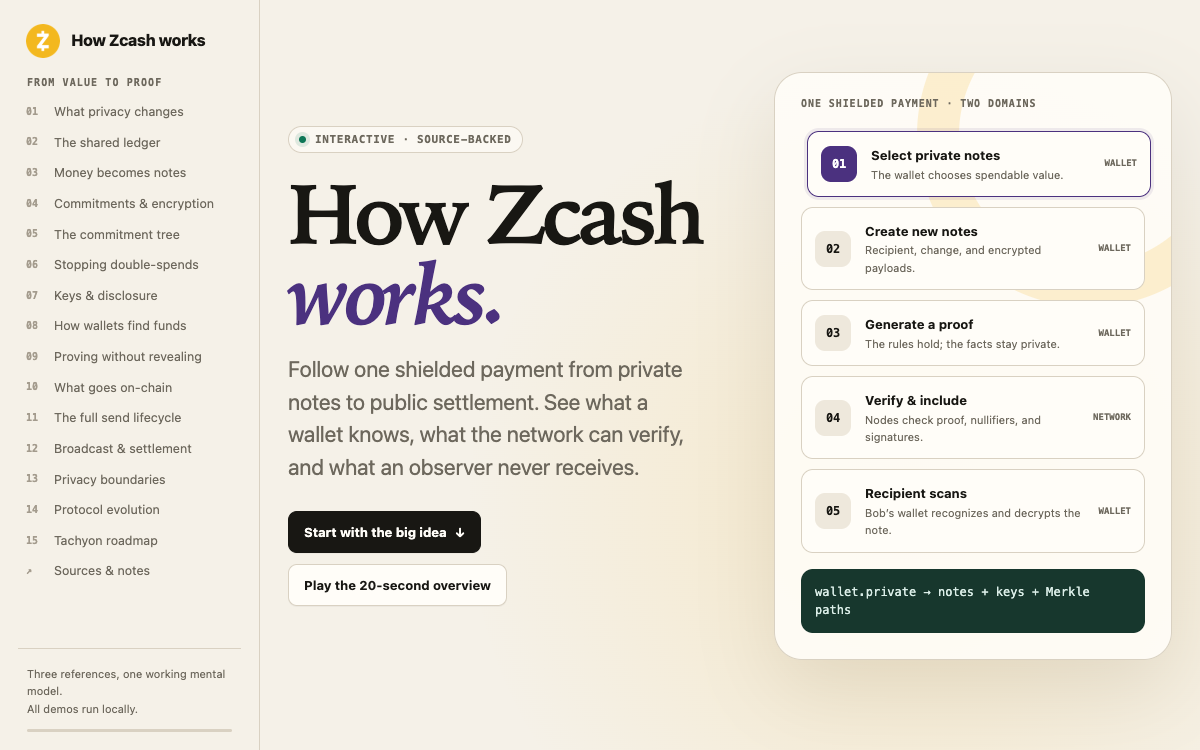
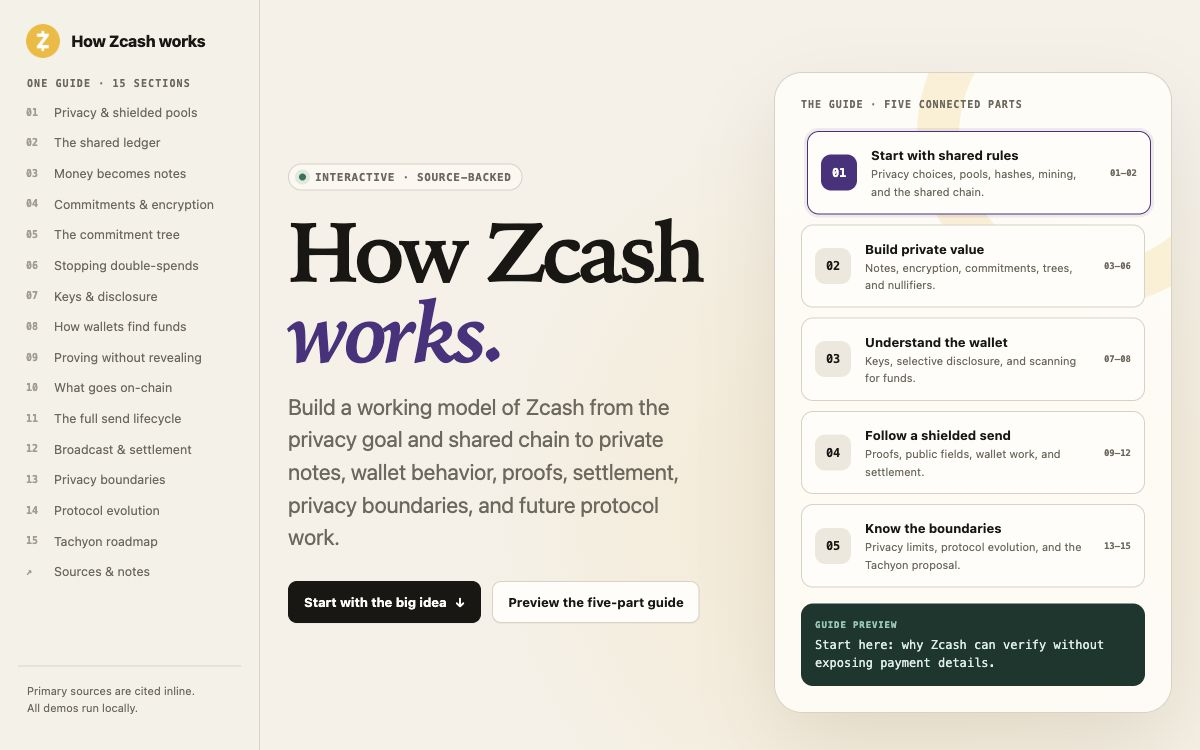
Refresh How Zcash Works guide map (#49)

diff --git a/apps/community/public/zec-shelf/how-zcash-works.html b/apps/community/public/zec-shelf/how-zcash-works.html
@@ -220,7 +220,7 @@ h1 em { color: var(--purple); font-style: italic; }
   box-shadow: 0 1px 0 rgba(24,23,19,.04);
 }
 .btn:hover { border-color: #b9af9f; transform: translateY(-1px); }
-.btn:focus-visible, .choice:focus-visible, .step-tab:focus-visible {
+.btn:focus-visible, .choice:focus-visible, .step-tab:focus-visible, .map-step:focus-visible {
   outline: 3px solid rgba(75,49,127,.24);
   outline-offset: 2px;
 }
@@ -270,9 +270,12 @@ h1 em { color: var(--purple); font-style: italic; }
   padding: 13px;
   border: 1px solid var(--line);
   border-radius: 12px;
+  color: var(--ink);
   background: var(--white);
+  text-decoration: none;
   transition: .25s ease;
 }
+.map-step:hover { border-color: #b9af9f; transform: translateX(3px); }
 .map-step.on {
   border-color: var(--purple);
   box-shadow: 0 0 0 3px rgba(75,49,127,.09);
@@ -300,6 +303,16 @@ h1 em { color: var(--purple); font-style: italic; }
   color: #dbeee8;
   background: #17372d;
   font: 12px/1.5 var(--mono);
+}
+.hero-map .mini-readout::before {
+  content: "Guide preview";
+  display: block;
+  margin-bottom: 5px;
+  color: #8cc8b6;
+  font-size: 9px;
+  font-weight: 700;
+  letter-spacing: .1em;
+  text-transform: uppercase;
 }
 
 .chapter {
@@ -2485,9 +2498,9 @@ input[type="range"] { width: 100%; accent-color: var(--purple); }
 
 <aside class="rail" aria-label="Guide navigation">
   <a class="brand" href="#top"><span class="brand-logo" aria-hidden="true"></span><span>How Zcash works</span></a>
-  <div class="eyebrow">From value to proof</div>
+  <div class="eyebrow">One guide · 15 sections</div>
   <nav id="chapterNav">
-    <a href="#why"><span class="num">01</span><span>What privacy changes</span></a>
+    <a href="#why"><span class="num">01</span><span>Privacy &amp; shielded pools</span></a>
     <a href="#ledger"><span class="num">02</span><span>The shared ledger</span></a>
     <a href="#notes"><span class="num">03</span><span>Money becomes notes</span></a>
     <a href="#commitments"><span class="num">04</span><span>Commitments &amp; encryption</span></a>
@@ -2505,7 +2518,7 @@ input[type="range"] { width: 100%; accent-color: var(--purple); }
     <a href="#sources"><span class="num">↗</span><span>Sources &amp; notes</span></a>
   </nav>
   <div class="rail-foot">
-    Three references, one working mental model.<br>
+    Primary sources are cited inline.<br>
     All demos run locally.
     <div class="progress" aria-hidden="true"><span id="readProgress"></span></div>
   </div>
@@ -2523,24 +2536,24 @@ input[type="range"] { width: 100%; accent-color: var(--purple); }
         <div class="kicker"><span class="dot"></span> Interactive · source-backed</div>
         <h1>How Zcash <em>works.</em></h1>
         <p class="lede">
-          Follow one shielded payment from private notes to public settlement. See what a wallet knows,
-          what the network can verify, and what an observer never receives.
+          Build a working model of Zcash from the privacy goal and shared chain to private notes,
+          wallet behavior, proofs, settlement, privacy boundaries, and future protocol work.
         </p>
         <div class="hero-actions">
           <a class="btn primary" href="#why">Start with the big idea <span aria-hidden="true">↓</span></a>
-          <button class="btn" id="heroPlay" type="button">Play the 20-second overview</button>
+          <button class="btn" id="heroPlay" type="button">Preview the five-part guide</button>
         </div>
       </div>
-      <div class="hero-map" aria-label="Overview of a shielded transaction">
-        <div class="map-label">One shielded payment · two domains</div>
+      <div class="hero-map" aria-label="Five-part map of this guide">
+        <div class="map-label">The guide · five connected parts</div>
         <div class="map-flow" id="heroFlow">
-          <div class="map-step on"><span class="map-icon">01</span><span><strong>Select private notes</strong><small>The wallet chooses spendable value.</small></span><span class="map-lane">wallet</span></div>
-          <div class="map-step"><span class="map-icon">02</span><span><strong>Create new notes</strong><small>Recipient, change, and encrypted payloads.</small></span><span class="map-lane">wallet</span></div>
-          <div class="map-step"><span class="map-icon">03</span><span><strong>Generate a proof</strong><small>The rules hold; the facts stay private.</small></span><span class="map-lane">wallet</span></div>
-          <div class="map-step"><span class="map-icon">04</span><span><strong>Verify &amp; include</strong><small>Nodes check proof, nullifiers, and signatures.</small></span><span class="map-lane">network</span></div>
-          <div class="map-step"><span class="map-icon">05</span><span><strong>Recipient scans</strong><small>Bob’s wallet recognizes and decrypts the note.</small></span><span class="map-lane">wallet</span></div>
+          <a class="map-step on" href="#why"><span class="map-icon">01</span><span><strong>Start with shared rules</strong><small>Privacy choices, pools, hashes, mining, and the shared chain.</small></span><span class="map-lane">01–02</span></a>
+          <a class="map-step" href="#notes"><span class="map-icon">02</span><span><strong>Build private value</strong><small>Notes, encryption, commitments, trees, and nullifiers.</small></span><span class="map-lane">03–06</span></a>
+          <a class="map-step" href="#keys"><span class="map-icon">03</span><span><strong>Understand the wallet</strong><small>Keys, selective disclosure, and scanning for funds.</small></span><span class="map-lane">07–08</span></a>
+          <a class="map-step" href="#proof"><span class="map-icon">04</span><span><strong>Follow a shielded send</strong><small>Proofs, public fields, wallet work, and settlement.</small></span><span class="map-lane">09–12</span></a>
+          <a class="map-step" href="#privacy"><span class="map-icon">05</span><span><strong>Know the boundaries</strong><small>Privacy limits, protocol evolution, and the Tachyon proposal.</small></span><span class="map-lane">13–15</span></a>
         </div>
-        <div class="mini-readout" id="heroReadout">wallet.private → notes + keys + Merkle paths</div>
+        <div class="mini-readout" id="heroReadout">Start here: why Zcash can verify without exposing payment details.</div>
       </div>
     </div>
   </header>
@@ -2548,7 +2561,7 @@ input[type="range"] { width: 100%; accent-color: var(--purple); }
   <section class="chapter" id="why">
     <div class="wrap">
       <div class="chapter-head">
-        <div class="chapter-no">01 / THE IDEA</div>
+        <div class="chapter-no">01 / PRIVACY + POOLS</div>
         <div>
           <h2>Verification does not have to mean visibility.</h2>
           <p class="chapter-intro">
@@ -4326,11 +4339,11 @@ input[type="range"] { width: 100%; accent-color: var(--purple); }
   // Hero overview
   const heroSteps = $$("#heroFlow .map-step");
   const heroLines = [
-    "wallet.private → notes + keys + Merkle paths",
-    "wallet.private → new notes + ciphertexts + commitments",
-    "wallet.private → circuit(witness) → compact proof",
-    "network.public → verify proof + nullifiers + signatures",
-    "wallet.private → trial-decrypt public ciphertexts"
+    "Start here: why Zcash can verify without exposing payment details.",
+    "Next: represent value as notes and stop hidden double-spends.",
+    "Then: see what keys reveal and how wallets discover funds.",
+    "Follow one send: prove privately, verify publicly, and settle on-chain.",
+    "Finish with privacy limits, protocol evolution, and what is only proposed."
   ];
   let heroIndex = 0, heroTimer = null;
   const setHeroStep = (i) => {
@@ -4344,15 +4357,15 @@ input[type="range"] { width: 100%; accent-color: var(--purple); }
   $("#heroPlay").addEventListener("click", () => {
     clearInterval(heroTimer);
     setHeroStep(0);
-    $("#heroPlay").textContent = "Playing…";
+    $("#heroPlay").textContent = "Previewing…";
     heroTimer = setInterval(() => {
       if (heroIndex >= heroSteps.length - 1) {
         clearInterval(heroTimer);
-        $("#heroPlay").textContent = "Replay the overview";
+        $("#heroPlay").textContent = "Replay the guide preview";
         return;
       }
       setHeroStep(heroIndex + 1);
-    }, 1150);
+    }, 1600);
   });
 
   // Visibility comparison
